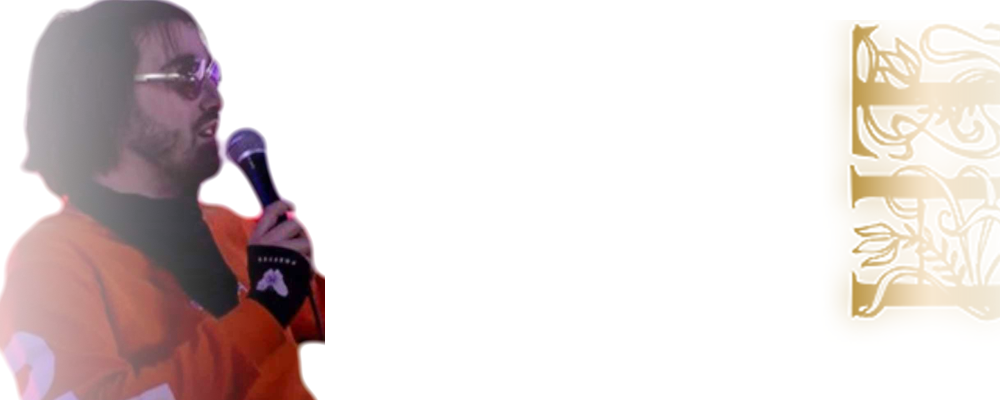
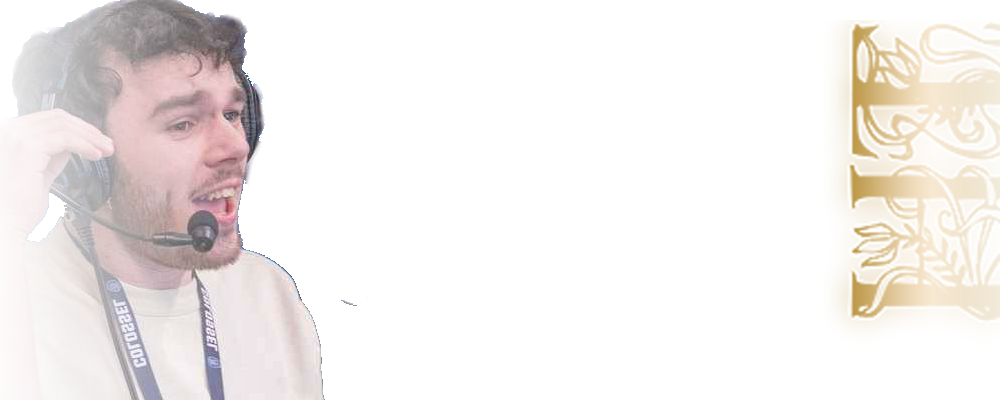
gfyuzesf

Changed region(s): [[0.0, 0.0, 0.341, 1.0]]

diff --git a/src/app/coach/coach.component.ts b/src/app/coach/coach.component.ts
@@ -23,14 +23,14 @@ export class CoachComponent {
 
 
   data = [
-    "J'ai fait le site. \n Y'a des bugs mais tranquille",
-    'hfisdhofsdjoi',
-    "coucou",
-    "ok bro t es pas drazai",
-    "coucou",
-    "le boss",
-    "Esprit fraternel, Râleur, Passionné, et fan de sa Blonde, il compte bien faire un dernier coup d’éclat avant son envol aux Etats-Unis",
-    "Le hidden boss par excellence, Main Sheik mais couteau suisse maîtrisant de nombreux personnages, son hobby, c’est de perdre avec son 45e perso en winner pour éliminer tout ses amis en loser bracket"
+    "Dario \"Azerty\" <br> <br> Main : Kazuya. <br> <br> Team : MPT <br> <br> Le père aigri jamais content de ce que font ses enfants. Il te rappellera toujours par ses connaissances et combos que t’as des devoirs à faire et tu sentiras le revers du daron s’il te voit dormir quand tu ne devrais pas.",
+    "Fei-long \"Mr.Daiyamondo\" Le dragon volant. <br> <br> Main : Joker. <br> <br> Team : MPT <br> <br> C’est l’eboy sucré retraité de la commu. Depuis qu’il a trouvé un travail il a lâché arsène le grand frère pour se concentrer sur ses véritables passions : freeplay et freefall dans la blast zone.",
+    "CKC <br> <br> Main : Captain Falcon. <br> <br>  Team : DC <br> <br> Très bon vivant, sociable, ptit buveur qui aime la vie, toujours souriant et très gentil, va de pair avec MaxyOurs tout pareil et kiff ses ptits tournois dans une ambiance chill et sans prise de tête !",
+    "Sapinos <br><br> Main : Wolf <br><br> Team : DC <br> <br> Un ptit try hardeur de la pleine lune qui aime se pinter avec les potes à côté. Aime pas se prendre la tête mais peut vite se plaindre quand il se sent dans l'inconfort",
+    "Alexandre \"Smogoth'\" aka L'encyclopédie <br> <br> Main : Rob. <br> <br> Team : HT <br> <br> Orphelin adopté par un ancien joueur de jeu de combat qui souhaitait transmettre son héritage.",
+    "Antony \"bearr\" aka Le cimetière de Simandres <br> <br> Main : Game & Watch / Mewtwo. <br> <br> Team : HT <br> <br> Ancien top 1 FR de SF3 amnésique suite à l'accident, il cherche son identité à travers Smash Bros.",
+    "Adrien \"Drazaï\" <br> <br> Main : Zero Suit Samus. <br> <br> Team : BLS <br> <br> Esprit fraternel, Râleur, Passionné, et fan de sa Blonde, il compte bien faire un dernier coup d’éclat avant son envol aux Etats-Unis",
+    "Palo \"Irtozero\" <br> <br> Main : le roster entier. <br> <br> Team : BLS <br> <br> Le hidden boss par excellence, Main Sheik mais couteau suisse maîtrisant de nombreux personnages, son hobby, c’est de perdre avec son 45e perso en winner pour éliminer tout ses amis en loser bracket"
   ]
 
 

diff --git a/src/app/player-choice/player-choice.component.ts b/src/app/player-choice/player-choice.component.ts
@@ -23,14 +23,14 @@ export class PlayerChoiceComponent {
 
 
   data = [
-    "J'ai fait le site. \n Y'a des bugs mais tranquille",
-    'hfisdhofsdjoi',
-    "coucou",
-    "le boss",
-    "re coucou",
-    "gyfdhu d zgyde gz gdiz giuydqz ghiudqs huodq shui",
-    "La sainte pureté à l’état pur, travailleur, il n’hésitera pas à mettre en application tout ce qu’il sait avec son Harmonie et un bon arsenal de douilles pour chercher la victoire",
-    "Un gros fan de Wario et de techs beaucoup trop poussées pour une saucismash, si jamais il joue Falco et qu’il se retrouve avec un gyro dans les mains, gare à vous !"
+    "Main : Falco. <br> <br> Il a des étoiles dans les yeux depuis la première sd de Daiyamondo et veut devenir comme son idole. Que ce soit avec l’alcool ou ses side B il finira par tomber mais fera tout son possible pour t’emmener avec lui",
+    'Main :  . <br><br> hfisdhofsdjoi',
+    "Main :  . <br><br> coucou",
+    "Main : . <br><br>",
+    "Peu2Vertu aka La Gatling des Bouche du Rhône <br> <br> Main : Yoshi / Lucina / Falcon. <br><br> Ex cambrioleur qui a obtenu une réduction de peine après avoir gagné toutes les weeklies de la prison de Marseille",
+    "Lucas Ocarno aka La canine de Crachiers <br> <br> Main : Snake / Sephiroth. <br><br> Addict à la ketamine qui se réfugie dans Smash Bros pour combler son addiction ",
+    "Main :  . <br><br> La sainte pureté à l’état pur, travailleur, il n’hésitera pas à mettre en application tout ce qu’il sait avec son Harmonie et un bon arsenal de douilles pour chercher la victoire",
+    "Main :  . <br><br> Un gros fan de Wario et de techs beaucoup trop poussées pour une saucismash, si jamais il joue Falco et qu’il se retrouve avec un gyro dans les mains, gare à vous !"
   ]
 
 

diff --git a/src/app/caster/caster.component.ts b/src/app/caster/caster.component.ts
@@ -22,10 +22,10 @@ export class CasterComponent {
 
 
   data = [
-    "J'ai fait le site. \n Y'a des bugs mais tranquille",
+    "Main : La Plante Piranha. <br><br> Membre original du plant gang. Si tu essayes de lui marcher sur les pieds il te crachera dessus avec ses fameux kill setups à 0% et son énorme boule. Véritable encyclopédie du smash compétitif, la base de données dans sa tête fonctionne mieux que start.gg.",
     'hfisdhofsdjoi',
-    "coucou",
-    "Co-Fondateur de l’équipe et joueur de Wario ses Wafts de monthly et de Weekly n’ont visiblement pas la même frame data, il aime plein de choses mais pas Steve, ni Min-Min, Ni Kazuya, Ni Bayonetta, Ni villageois, Ni Felinferno, ni…"
+    "Romain KeyFace aka Le dompteur de dragons <br> <br> Main : Bowser Jr / Meta Knight. <br> <br> Ancien archimage de l'académie du Puy en Velay, il est en quête de nouvelles arcanes dans le cast",
+    "Main : Wario. <br><br> Co-Fondateur de l’équipe et joueur de Wario ses Wafts de monthly et de Weekly n’ont visiblement pas la même frame data, il aime plein de choses mais pas Steve, ni Min-Min, Ni Kazuya, Ni Bayonetta, Ni villageois, Ni Felinferno, ni…"
   ]
 
 

diff --git a/src/app/caster/caster.component.html b/src/app/caster/caster.component.html
@@ -31,7 +31,7 @@
             <mat-card appearance="outlined" class="title-card-img product player-bg-image-baskoy" style="margin-bottom: 30px;">
                 <div>
                     <mat-card-header class="mat-card-main-title">
-                        <mat-card-title class="norse-font">Baskoy</mat-card-title>
+                        <mat-card-title class="norse-font">Keyface</mat-card-title>
                     </mat-card-header>
                     <mat-card-actions style="padding-top: 180px;">
                         <button mat-button (click)="openDialog('Baskoy', 2)" style="font-size: 22px;">Description</button>

diff --git a/src/app/team/team.component.html b/src/app/team/team.component.html
@@ -49,7 +49,7 @@
             <mat-card appearance="outlined" class="title-card-img product" style="margin-bottom: 30px; border-radius: 90% 90% 0% 0%;">
                 <div>
                     <mat-card-header class="mat-card-main-title">
-                        <mat-card-title class="norse-font">Le Blossom</mat-card-title>
+                        <mat-card-title class="norse-font">La Blossom</mat-card-title>
                         
                     </mat-card-header>
                     <div class="team-bg-image-bls image-div">

diff --git a/src/app/player-choice/player-choice.component.html b/src/app/player-choice/player-choice.component.html
@@ -154,7 +154,7 @@
       <mat-card appearance="outlined" class="card-img player-bg-image-picpic" style="margin-bottom: 30px;">
         <div>
             <mat-card-header class="mat-card-title-center">
-                <mat-card-title class="norse-font">Pic Pic</mat-card-title>
+                <mat-card-title class="norse-font">PicPic7</mat-card-title>
                 
             </mat-card-header>
             <mat-card-actions>

diff --git a/src/app/modal/modal.component.html b/src/app/modal/modal.component.html
@@ -102,7 +102,7 @@
 
 
     <div class="title-card-img product">
-        <p class="text"> {{ data.description }} </p>
+        <p class="text" [innerHTML]="data.description"></p>
 
         <br> <br> <br> 
         <video *ngIf="data.name==='La Douille Corp'" width="600" controls class="item-center">

diff --git a/src/app/modal/modal.component.css b/src/app/modal/modal.component.css
@@ -61,7 +61,7 @@
 
 
 .player-bg-image-baskoy {
-  background-image: url('../../assets/personnes/baskoy1.png');
+  background-image: url('../../assets/personnes/keyface1.png');
 }
 
 .player-bg-image-sourif {
